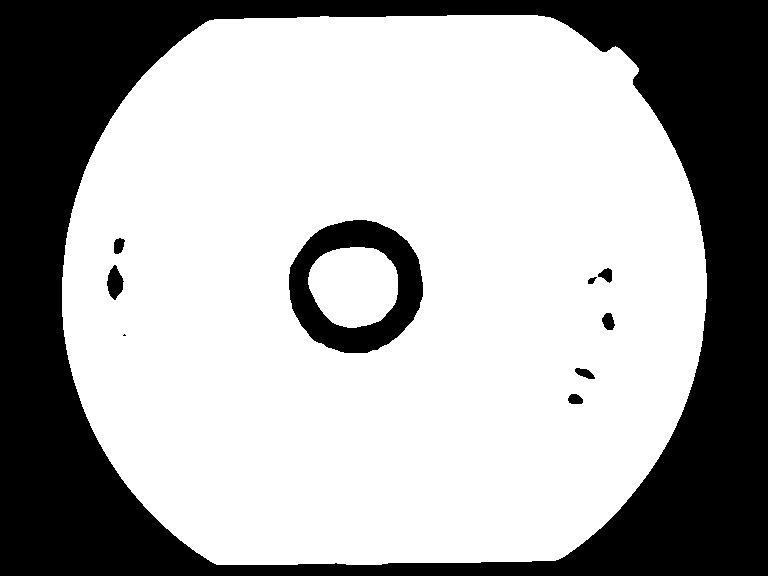
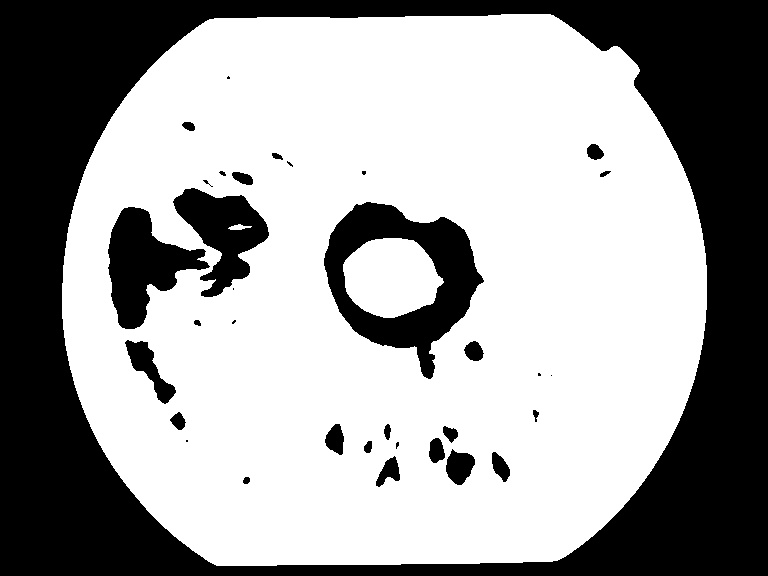
Fix bugs and change the gui

diff --git a/iris_detection.py b/iris_detection.py
@@ -2,45 +2,51 @@ import numpy as np
 import cv2
 import matplotlib.pyplot as plt
 import seaborn as sns
+from tkinter import filedialog
+
+
 #from scipy import stats as st
 #from tkinter import ttk
 #from tkinter.messagebox import showinfo
 #import tkinter as tk                    
-from tkinter import filedialog
 #from tkinter.filedialog import askopenfile
 #from PIL import Image, ImageTk
 
 
-class Iris_detection():
+class IrisDetection():
     def __init__(self, image_path):
         self._img = None
         self._img_path = image_path
         self._pupil = None
         self._iris = None
-        self._imgbaw = None
+        self._img_segmatation = None
+        self._original = None
+        self._baw_detection = None
+        self._color_detection = None
+
 
     def load_image(self):
 
         self._img = cv2.imread(self._img_path)
         #self._img = cv2.imread(self._img_path,1) #read in gray scale
         self._original = self._img.copy()
+        self._color_detection = self._img.copy()
         if type(self._img) is type(None):
             return False
         else:
             return True
         
+    def convert_to_gray_scale_no_blur(self):
+        self._img =  cv2.cvtColor(self._img, cv2.COLOR_BGR2GRAY)
+
+        
     def convert_to_gray_scale(self):
-        #self._img =  cv2.cvtColor(self._img, cv2.COLOR_BGR2GRAY)
-
         imagen = cv2.cvtColor(self._img, cv2.COLOR_BGR2GRAY)
-        cv2.imwrite('original.jpg', imagen)
-        self._imgbaw = imagen.copy()
-        self._img  = cv2.GaussianBlur(imagen,(9,9), cv2.BORDER_DEFAULT)
-        #cv2.imwrite('opencv_th_tz.jpg', t)
-        #self._img  = cv2.GaussianBlur(imagen,(3,3), cv2.BORDER_DEFAULT)
+        self._img_segmatation = imagen.copy()
+        self._img  = cv2.GaussianBlur(imagen,(9,9), cv2.BORDER_DEFAULT) #estudiar como funciona esto
 
-        #plt.rcParams["figure.figsize"]=(16,9)
-        #plt.imshow(imagen,cmap='gray')
+        #cv2.imwrite('original.jpg', imagen)
+        #cv2.imwrite('opencv_th_tz.jpg', t)
 
         #cv2.imshow("Result",imagen)
         #cv2.waitKey(0)
@@ -62,19 +68,18 @@ class Iris_detection():
                 print('More than 1 circle found for the pupil')
             for circle in l:
                 center = (int(circle[0]), int(circle[1]))
-                radius = int(circle[2])
-                #print('wtf1',center)
-                cv2.circle(self._original, center, radius, (0, 0, 255), thickness = 1)
+                radius = int(circle[2]) 
+                cv2.circle(self._color_detection, center, radius, (0, 0, 255), thickness = 1) # solo dibujar circulo
+                cv2.circle(self._color_detection, center, 3, (255, 0, 0), thickness = -1)
+                cv2.circle(self._original, center, radius, (0, 0, 0), thickness = -1)
                 cv2.circle(self._original, center, 3, (255, 0, 0), thickness = -1)
                 cv2.circle(self._img, center, radius, (0, 0, 0), thickness=-1)
-                cv2.circle(self._imgbaw, center, radius, (0, 0, 0), thickness=-1)
+                cv2.circle(self._img_segmatation, center, radius, (0, 0, 0), thickness=-1)
                 self._pupil = (center[0], center[1], radius)
 
     def detect_iris(self):
         _, t = cv2.threshold(self._img, 125, 255, cv2.THRESH_BINARY)
         contours, _ = cv2.findContours(t, cv2.RETR_TREE, cv2.CHAIN_APPROX_SIMPLE)
-        #print('jorge',len(contours))
-        #cv2.imwrite('opencv_th_tz.jpg', t)
         img_with_contours = np.copy(self._img)
         cv2.drawContours(img_with_contours, contours, -1, (0, 255, 0))
         cv2.imwrite('opencv_th_tz.jpg', img_with_contours)
@@ -88,22 +93,26 @@ class Iris_detection():
             for circle in l:
                 
                 center = (int(circle[0]), int(circle[1]))
-                #center = (self._pupil[0], self._pupil[1])
                 radius = int(circle[2])
                 
-                cv2.circle(self._original, center, radius, (0, 0, 255), thickness = 1)
+                cv2.circle(self._color_detection, center, radius, (0, 0, 255), thickness = 1)
+                cv2.circle(self._color_detection, center, 3, (0, 0, 255), thickness = -1) 
                 cv2.circle(self._original, center, 3, (0, 0, 255), thickness = -1)
+                
                 self._iris = (center[0], center[1], radius)
+                #print((self._img.shape[0], self._img.shape[1], 1))
+                #print((self._original.shape[0], self._original.shape[1], 1))
                 mask = np.zeros((self._img.shape[0], self._img.shape[1], 1), np.uint8)
                 cv2.circle(mask, center, radius, (255, 255, 255), thickness = -1)
+                self._original = cv2.bitwise_and(self._original,self._original, mask=mask)
                 self._img = cv2.bitwise_and(self._img, mask)
-                self._imgbaw = cv2.bitwise_and(self._imgbaw, mask)
+                self._img_segmatation = cv2.bitwise_and(self._img_segmatation, mask)
                 
                 
 
     def detect_anomalies(self):
-
-        _, thresh = cv2.threshold(self._img,85 , 255, cv2.THRESH_BINARY)
+        
+        _, thresh = cv2.threshold(self._img,self._p5, 255, cv2.THRESH_BINARY)
         contours, _ = cv2.findContours(thresh, cv2.RETR_TREE, cv2.CHAIN_APPROX_SIMPLE)
         cv2.imwrite('anomalies.jpg', thresh)
 
@@ -112,19 +121,36 @@ class Iris_detection():
             approx = cv2.approxPolyDP(contour,0.01*cv2.arcLength(contour,True),True) #this is to find circles, dont need it right know
             area = cv2.contourArea(contour)
             #print('area',len(approx),area)
-            if  area < 1000: #avoid find countours to big maybe y have to increase this value
+            if  area < 10000: #avoid find countours to big maybe y have to increase this value
                 #print('area',len(approx),area)
                 contour_list.append(contour)
             # else:
             #     #contour_list.append(contour)
             #     pass
-
+        self._baw_detection = self._img_segmatation.copy()
+        cv2.drawContours(self._baw_detection, contour_list, -2, (255, 0, 0))
         cv2.drawContours(self._original, contour_list, -2, (255, 0, 0))
+        cv2.drawContours(self._color_detection, contour_list, -2, (255, 0, 0))
+
+    def draw_circules(self):
+        radius_pupil = self._pupil[2]
+        radius_iris = self._iris[2]
+        diff = radius_iris - radius_pupil
+        percentages = [0.1333 , 0.3222 , 0.4888 , 0.6888 , 0.8666,0.9555]
+        raddi = [int(diff*x+radius_pupil) for x in percentages]
+        #print(raddi)
+        #center = (self._pupil[0], self._pupil[1])
+        center = (self._iris[0], self._iris[1])
+        #self._baw_detection = self._img_segmatation.copy()
+        for radius in raddi:
+            cv2.circle(self._color_detection, center, radius, (0, 255, 0), thickness = 1)
+            cv2.circle(self._baw_detection, center, radius, (0, 255, 0), thickness = 1)
+            cv2.circle(self._original, center, radius, (0, 255, 0), thickness = 1)
         
     def histogram(self):
-        #print('size',self._img.shape)
-
-        data_f = self._img.ravel()
+        
+        #data_f = self._img.ravel()
+        data_f = self._img_segmatation.ravel() # revisar diferencia entre _img y _img_segmatation
         data_f = np.delete(data_f, np.where(data_f == 0))
         sns.set(style="darkgrid")
         f, (ax_box, ax_hist) = plt.subplots(2,figsize=(12,3), sharex=True, gridspec_kw={"height_ratios": (.15, .85)})
@@ -139,74 +165,67 @@ class Iris_detection():
     def information(self):
         print('information')
         
-        data = self._img.ravel()
+        data = self._img_segmatation.ravel() 
         data_f = np.delete(data, np.where(data == 0))
         mean = np.average(data_f)
-        #mode = statistics.mode(data_f)
-        p5,p10,q1,q2,q3,p90= np.percentile(data_f, [5,10,25,50,75,90])
+        p5,p10,q1,q2,q3= np.percentile(data_f, [5,10,25,50,75])
+        self._p5 = p5
         iqr = q3 - q1
         threshold = q1-1.5*iqr
-        max_value_words = max(data_f)
-        min_value_words = min(data_f)
-        var_value = np.var(data_f)
-        std_value = np.std(data_f)
+        
         print("mean:", mean)
         print("median:", q2)
-        #print("mode:", mode)
-        #print("q1:", q1)
-        #print("q3:", q3)
-        #print("p90:", p90)
         print("p5:", p5)
         print("p10:", p10)
-        #print("iqr:", iqr)
         print("threshold atypical values",threshold)
+        #print("iqr:", iqr)
+
+        # max_value_words = max(data_f)
+        # min_value_words = min(data_f)
+        # var_value = np.var(data_f)
+        # std_value = np.std(data_f)
         #print("max:", max_value_words)
         #print("min:", min_value_words)
         #print("range:", max_value_words-min_value_words)
         #print("var:", var_value)
         #print("std:",std_value)
 
-    def draw_circules(self):
-        radius_pupil = self._pupil[2]
-        radius_iris = self._iris[2]
-        diff = radius_iris - radius_pupil
-        percentages = [0.1333 , 0.3222 , 0.4888 , 0.6888 , 0.8666,0.9555]
-        raddi = [int(diff*x+radius_pupil) for x in percentages]
-        #print(raddi)
-        #center = (self._pupil[0], self._pupil[1])
-        center = (self._iris[0], self._iris[1])
-        for radius in raddi:
-            cv2.circle(self._original, center, radius, (0, 255, 0), thickness = 1)
     
     def start_detection(self):
         if(self.load_image()):
             self.convert_to_gray_scale()
             self.detect_pupil()
             self.detect_iris()
-            self.detect_anomalies()
             self.information()
-            self.histogram()
+            self.detect_anomalies()
+            
+           
+            #self.histogram()
             self.draw_circules()
+
             #imS = cv2.resize(self._img, (1280,720))   
             #cv2.imshow("Result",imS)
 
-            cv2.imshow("Result",self._original)
+            #cv2.imshow("Result",self._original) 
             #cv2.imshow("Result",self._img)
-            #cv2.imshow("Result",self._imgbaw)
-            cv2.waitKey(0)
+            #cv2.imshow("Result",self._img_segmatation)
+            #cv2.waitKey(0)
         else:
             print('Image file "' + self._img_path + '" could not be loaded.')
         #cv2.destroyAllWindows()
-        return self._img
+        #return self._img
+        return self._original, self._img_segmatation, self._baw_detection, self._color_detection
         
-            
-#f_types = [('Jpg Files', '*.jpg')]
-#f_types = [('Jpg Files', '*.jpg','Png Files', '*.png')]
-# f_types = [('Png Files', '*.png')]
-# filename = filedialog.askopenfilename(filetypes=f_types)
-# id = Iris_detection(filename) 
+if __name__ == "__main__":           
+    #f_types = [('Jpg Files', '*.jpg')]
+    #f_types = [('Jpg Files', '*.jpg','Png Files', '*.png')]
+    # f_types = [('Png Files', '*.png')]
+    # filename = filedialog.askopenfilename(filetypes=f_types)
+    # id = IrisDetection(filename) 
 
-#id = Iris_detection('004R_3.png')
-id = Iris_detection('013L_1.png')
+    id = IrisDetection('004R_3.png')
 
-id.start_detection()
+    #id = IrisDetection('013L_1.png')
+    original_image, segmetation_image, baw_detection, color_detection = id.start_detection()
+    cv2.imshow("Result",original_image) 
+    cv2.waitKey(0)

diff --git a/main.py b/main.py
@@ -4,7 +4,8 @@ import tkinter as tk
 from tkinter import filedialog
 from tkinter.filedialog import askopenfile
 from PIL import Image, ImageTk
-from iris_detection import Iris_detection
+from iris_detection import IrisDetection
+import cv2
 
 class App(tk.Tk):
 
@@ -35,22 +36,33 @@ class App(tk.Tk):
         l1.grid(row=1,column=1)
 
     def upload_file(self):
-        f_types = [('Jpg Files', '*.jpg')]
+        #f_types = [('Jpg Files', '*.jpg')]
+        f_types = [('Png Files', '*.png')]
         filename = filedialog.askopenfilename(filetypes=f_types)
         print(filename)
         img = ImageTk.PhotoImage(file=filename)
         self._img = img
         b2 =tk.Button(self.tab1,image=img) # using Button 
         b2.grid(row=3,column=1)
-        self._iris = Iris_detection(filename)
-        img = self._iris.start_detection()
-        im = Image.fromarray(img)
-        imgtk = ImageTk.PhotoImage(image=im)
-        b2 =tk.Button(self.tab2,image= self._img) # using Button 
+        self._iris = IrisDetection(filename)
+        
+        original_image, segmetation_image, baw_detection, color_detection = self._iris.start_detection()
+        original_image = cv2.cvtColor(original_image,cv2.COLOR_BGR2RGB)
+        original = Image.fromarray(original_image)
+        img_original = ImageTk.PhotoImage(image=original)
+        
+        
+        detection = Image.fromarray(baw_detection)
+        img_detection = ImageTk.PhotoImage(image=detection)
+
+        segmetation = Image.fromarray(segmetation_image)
+        img_segmetation = ImageTk.PhotoImage(image=segmetation)
+
+        b2 =tk.Button(self.tab2,image=img_original) # using Button 
         b2.grid(row=2,column=1)
-        b3 =tk.Button(self.tab2,image= self._img) # using Button 
+        b3 =tk.Button(self.tab2,image= img_segmetation) # using Button 
         b3.grid(row=3,column=1)
-        b4 =tk.Button(self.tab2,image=imgtk) # using Button 
+        b4 =tk.Button(self.tab2,image=img_detection) # using Button 
         b4.grid(row=2,column=2)
         self.mainloop()  
 
